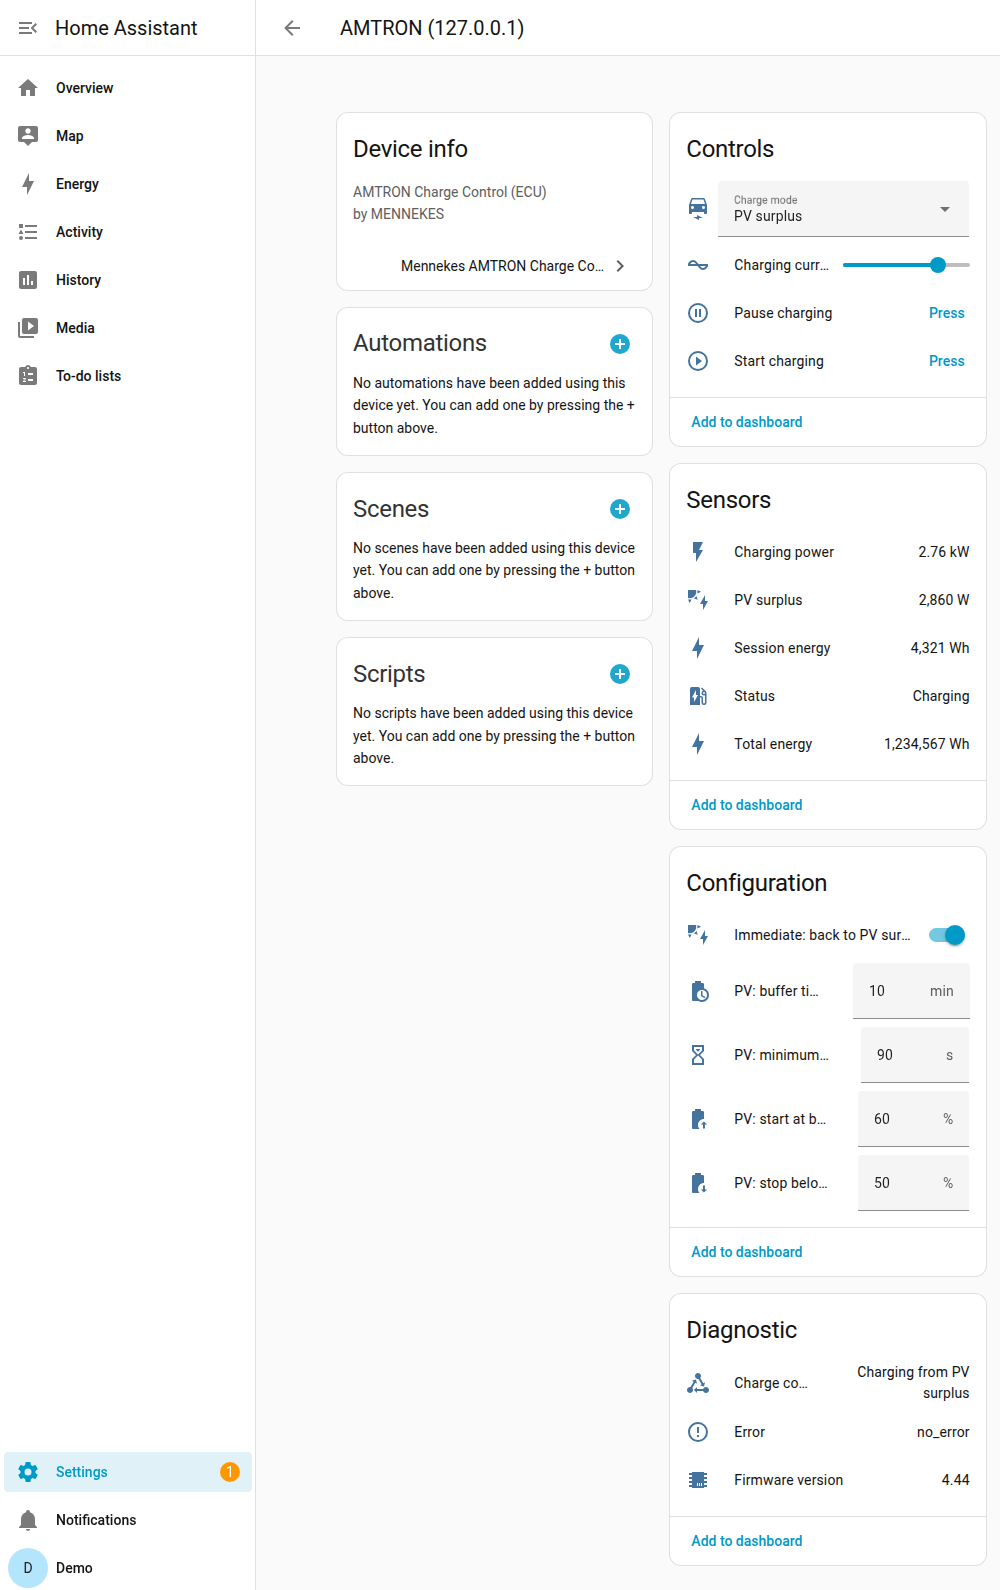
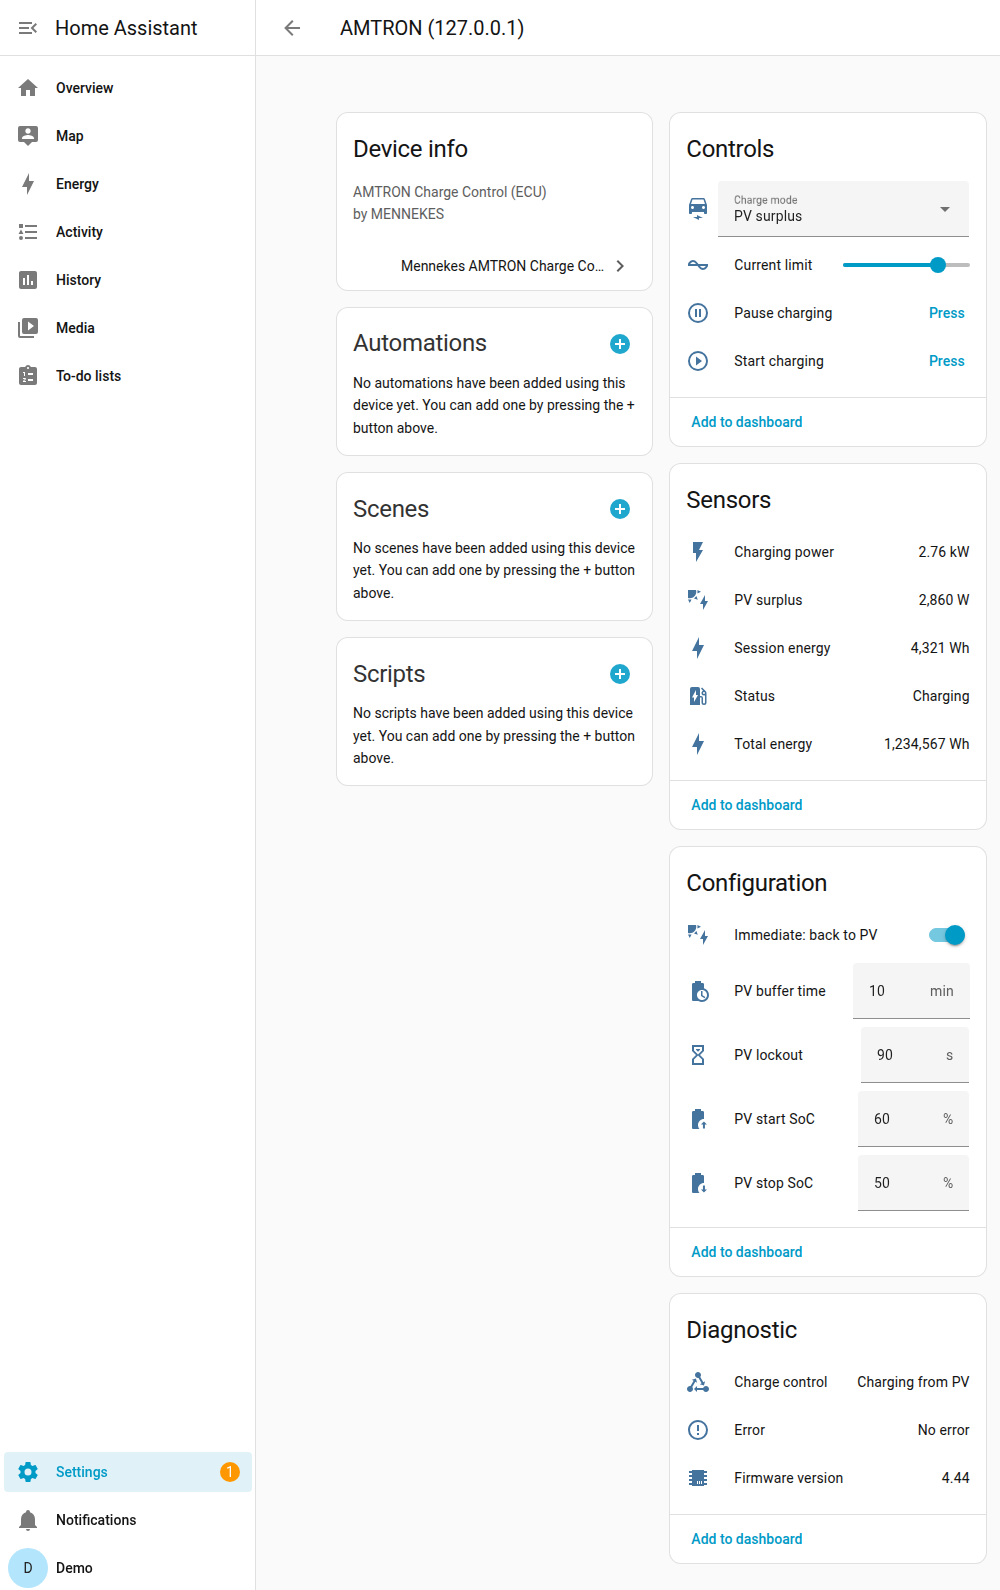
Shorten entity names and show the error sensor in plain words
The device page cut off most of the longer names ("PV: buffer ti...",
"Charging curr..."). They are now short enough to fit in both
languages: Current limit / Stromgrenze, Power limit / Leistungsgrenze,
PV start SoC, PV stop SoC, PV lockout / PV Sperrzeit, PV buffer time /
PV Pufferzeit, Immediate: back to PV / Sofort: zurück zu PV. Two
charge control states follow ("Charging from PV", "Lockout running").
Entity IDs of existing installs don't change, only the shown names.

The error sensor showed the raw "no_error". It is now an enum sensor -
the only kind Home Assistant translates - with "No error", each named
error flag in plain words, or "Several errors" when more than one flag
is set; the attributes still list every active flag.

A new test checks that every enum state has a translation and that all
languages have the same keys as strings.json. Docs and screenshots use
the new names.

Claude-Session: https://claude.ai/code/session_01ATj6pLwHaoEeCnDxwBPKHn

diff --git a/custom_components/mennekes_amtron/sensor.py b/custom_components/mennekes_amtron/sensor.py
@@ -8,8 +8,8 @@ from homeassistant.core import HomeAssistant
 from homeassistant.helpers.entity_platform import AddEntitiesCallback
 
 from .charge_controller import CONTROL_STATES, ChargeController
-from .const import CP_STATUS, PV_AVERAGE_WINDOW_S
-from .coordinator import AmtronCoordinator, AmtronData
+from .const import CP_STATUS, ERROR_STATES, PV_AVERAGE_WINDOW_S
+from .coordinator import AmtronCoordinator, AmtronData, summarize_errors
 from .entity import AmtronEntity
 from .pv_surplus import PvSurplusTracker
 
@@ -108,8 +108,10 @@ class AmtronErrorSensor(AmtronEntity, SensorEntity):
     """Decoded ECU error flags (system errors), useful for troubleshooting.
 
     Unlike the HCC3 controller, the ECU can report *several* error
-    conditions at once as a bitmask, so the state is a summary and every
-    active (named) flag is listed in the entity's attributes. The three
+    conditions at once as a bitmask. The state is "no_error", the one
+    active flag, or "multiple_errors" - an enum, so the frontend shows it
+    translated - and every active (named) flag is listed in the entity's
+    attributes. The three
     "reserved" error-code register pairs (ERROR_CODES_1-3) are read too and
     exposed as raw values, even though the manufacturer's document does not
     currently define any named bits for them - in case your firmware
@@ -119,14 +121,14 @@ class AmtronErrorSensor(AmtronEntity, SensorEntity):
     _attr_translation_key = "error"
     _unique_id_suffix = "error"
     _attr_entity_category = EntityCategory.DIAGNOSTIC
+    _attr_device_class = SensorDeviceClass.ENUM
+    _attr_options = ERROR_STATES
     _attr_icon = "mdi:alert-circle-outline"
 
     @property
     def native_value(self) -> str:
         data: AmtronData = self.coordinator.data
-        if not data.active_errors:
-            return "no_error"
-        return ", ".join(data.active_errors)
+        return summarize_errors(data.active_errors)
 
     @property
     def extra_state_attributes(self) -> dict[str, object]:

diff --git a/tests/test_translations.py b/tests/test_translations.py
@@ -1,0 +1,50 @@
+"""Tests for the translation files: complete, and the same keys in every language.
+
+hassfest checks the schema in CI, but not that every enum state the code
+can produce has a translation - a missing one shows up as a raw key like
+"no_error" in the frontend.
+"""
+from __future__ import annotations
+
+import json
+from pathlib import Path
+
+import mennekes_amtron.const as c
+import pytest
+from mennekes_amtron.charge_controller import CONTROL_STATES
+
+COMPONENT = Path(__file__).parent.parent / "custom_components" / "mennekes_amtron"
+STRINGS = json.loads((COMPONENT / "strings.json").read_text(encoding="utf-8"))
+LANGUAGES = {
+    path.stem: json.loads(path.read_text(encoding="utf-8")) for path in (COMPONENT / "translations").glob("*.json")
+}
+
+
+def _keys(tree: dict, prefix: str = "") -> set[str]:
+    keys = set()
+    for key, value in tree.items():
+        path = f"{prefix}.{key}" if prefix else key
+        keys |= _keys(value, path) if isinstance(value, dict) else {path}
+    return keys
+
+
+def test_english_translation_is_a_copy_of_strings_json():
+    assert LANGUAGES["en"] == STRINGS
+
+
+@pytest.mark.parametrize("language", sorted(LANGUAGES))
+def test_every_language_has_exactly_the_keys_of_strings_json(language):
+    assert _keys(LANGUAGES[language]) == _keys(STRINGS)
+
+
+@pytest.mark.parametrize(
+    "section, key, states",
+    [
+        ("sensor", "status", [*c.CP_STATUS.values(), "unknown"]),
+        ("sensor", "error", c.ERROR_STATES),
+        ("sensor", "charge_control", CONTROL_STATES),
+        ("select", "charge_mode", c.CHARGE_MODES),
+    ],
+)
+def test_every_enum_state_has_a_translation(section, key, states):
+    assert set(STRINGS["entity"][section][key]["state"]) == set(states)

diff --git a/custom_components/mennekes_amtron/coordinator.py b/custom_components/mennekes_amtron/coordinator.py
@@ -23,6 +23,8 @@ from .const import (
     DEFAULT_START_CURRENT_A,
     DOMAIN,
     ERROR_FLAGS,
+    ERROR_STATE_MULTIPLE,
+    ERROR_STATE_NONE,
     FIRMWARE_BLOCK_COUNT,
     FIRMWARE_BLOCK_START,
     METER_BLOCK_COUNT,
@@ -94,6 +96,19 @@ def _decode_error_pair(reg_at_lower_address: int, reg_at_higher_address: int) ->
     bits at the time of writing - see ERROR_FLAGS in const.py).
     """
     return (_byte_swap16(reg_at_higher_address) << 16) | _byte_swap16(reg_at_lower_address)
+
+
+def summarize_errors(active_errors: list[str]) -> str:
+    """The error sensor's state: one of ERROR_STATES, so Home Assistant can translate it.
+
+    Several active flags can't be joined into one translatable state, so
+    they become ERROR_STATE_MULTIPLE (the sensor lists them in its attributes).
+    """
+    if not active_errors:
+        return ERROR_STATE_NONE
+    if len(active_errors) == 1:
+        return active_errors[0]
+    return ERROR_STATE_MULTIPLE
 
 
 def _encode_id_tag(tag: str) -> list[int]:

diff --git a/tests/test_coordinator.py b/tests/test_coordinator.py
@@ -19,6 +19,7 @@ from mennekes_amtron.coordinator import (
     _decode_power_w,
     _encode_id_tag,
     _to_uint32,
+    summarize_errors,
 )
 from mennekes_amtron.modbus_client import AmtronModbusClient
 
@@ -139,6 +140,13 @@ def test_coordinator_decodes_active_errors():
             assert data.active_errors == ["err_rcmb_triggered", "err_contactor_weld"]
 
     run(body())
+
+
+def test_summarize_errors_gives_one_translatable_state():
+    assert summarize_errors([]) == c.ERROR_STATE_NONE
+    assert summarize_errors(["err_rcd_triggered"]) == "err_rcd_triggered"
+    assert summarize_errors(["err_rcmb_triggered", "err_contactor_weld"]) == c.ERROR_STATE_MULTIPLE
+    assert {c.ERROR_STATE_NONE, c.ERROR_STATE_MULTIPLE, *c.ERROR_FLAGS.values()} == set(c.ERROR_STATES)
 
 
 def test_coordinator_exposes_reserved_error_words_as_raw_diagnostics():

diff --git a/custom_components/mennekes_amtron/const.py b/custom_components/mennekes_amtron/const.py
@@ -197,6 +197,11 @@ ERROR_FLAGS = {
     20: "err_incorrect_phase_installation",
     21: "err_no_power",
 }
+# The error sensor's states: no error, the one active flag, or a summary
+# when several are set (the sensor's attributes list all of them).
+ERROR_STATE_NONE = "no_error"
+ERROR_STATE_MULTIPLE = "multiple_errors"
+ERROR_STATES = [ERROR_STATE_NONE, *ERROR_FLAGS.values(), ERROR_STATE_MULTIPLE]
 
 # --- Meter values from the OCPP primary meter -----------------------------
 # Energy L2/L3 are never populated on any documented meter model (they

diff --git a/README.md b/README.md
@@ -19,7 +19,7 @@ pymodbus dependency.
 ## Features
 
 - **Charging power** (kW) — live, from the wallbox's built-in energy meter
-- **Charging current limit** (A) — adjustable, with a configurable maximum matching your
+- **Current limit** (A) — adjustable, with a configurable maximum matching your
   supply circuit's fusing
 - **Start charging** — sets a configurable "start current" (16 A by default), then writes a
   synthetic OCPP IdTag (same effect as tapping an RFID card). If a session is already open, it
@@ -41,17 +41,18 @@ pymodbus dependency.
 | Entity | Type | Shown under | Notes |
 |---|---|---|---|
 | Charge mode | Select | Controls | PV surplus / Immediate / Off / Manual. Default Manual. |
-| Charging current limit | Number (A) | Controls | 0 = paused; 6 A … configured maximum. Changing it switches the charge mode to Manual. |
-| Charging power limit | Number (W) | Controls | Only with phase switching enabled. |
+| Current limit | Number (A) | Controls | 0 = paused; 6 A … configured maximum. Changing it switches the charge mode to Manual. |
+| Power limit | Number (W) | Controls | Only with phase switching enabled. |
 | Start charging / Pause charging | Button | Controls | Both switch the charge mode to Manual. |
 | Charging power | Sensor (kW) | Sensors | From the wallbox's meter. |
 | Status | Sensor | Sensors | OCPP status, e.g. Available, Charging, Suspended (wallbox), Suspended (vehicle). |
 | Session energy / Total energy | Sensor (Wh) | Sensors | Total energy works with the Energy dashboard. |
 | PV surplus | Sensor (W) | Sensors | Only with PV sources configured; 2-minute average. |
-| PV: start at battery SoC, PV: stop below battery SoC, PV: minimum time between start/stop, PV: buffer time below 6 A | Number | Configuration | Only with PV sources configured. |
-| Immediate: back to PV surplus when full | Switch | Configuration | Only with PV sources configured. |
+| PV start SoC, PV stop SoC, PV lockout, PV buffer time | Number | Configuration | Only with PV sources configured; see [PV surplus controller](#pv-surplus-controller). |
+| Immediate: back to PV | Switch | Configuration | Only with PV sources configured; see [Back from Immediate](#charge-mode). |
 | Charge control | Sensor | Diagnostic | What the PV controller is doing and why. |
-| Error / Firmware version | Sensor | Diagnostic | |
+| Error | Sensor | Diagnostic | "No error", the active error in plain words, or "Several errors"; the attributes list every active error. |
+| Firmware version | Sensor | Diagnostic | |
 
 ## Getting started
 
@@ -75,9 +76,9 @@ switching"**:
 
 | Mode | Effect |
 |---|---|
-| Disabled *(default)* | Unchanged from above: only the Amp-based **Charging current limit** entity exists. |
-| Single-phase only | Adds a **Charging power limit** (W) entity; requests are always clamped to the 1-phase range, never switching to 3-phase. The charge mode controller (PV surplus, Immediate, Off) is inactive in this mode and the next. |
-| Automatic (1-phase / 3-phase) | Adds the same **Charging power limit** (W) entity; the wallbox switches phases itself depending on the requested power - below 4140 W it charges 1-phase, at or above it charges 3-phase (the wallbox's own documented behavior for this register, not something this integration decides). |
+| Disabled *(default)* | Unchanged from above: only the Amp-based **Current limit** entity exists. |
+| Single-phase only | Adds a **Power limit** (W) entity; requests are always clamped to the 1-phase range, never switching to 3-phase. The charge mode controller (PV surplus, Immediate, Off) is inactive in this mode and the next. |
+| Automatic (1-phase / 3-phase) | Adds the same **Power limit** (W) entity; the wallbox switches phases itself depending on the requested power - below 4140 W it charges 1-phase, at or above it charges 3-phase (the wallbox's own documented behavior for this register, not something this integration decides). |
 
 Set the entity to the power you actually want delivered (e.g. `1380` for a minimal 1-phase
 charge, `11040` for a full 3-phase 16 A charge); the integration converts it to what the wallbox
@@ -132,12 +133,12 @@ The **Charge mode** select entity:
 | Manual *(default)* | The integration doesn't touch the wallbox on its own. |
 
 **Manual override:** pressing **Start charging** or **Pause charging**, or changing the
-**Charging current limit**, switches the mode to Manual - otherwise the controller would undo it
+**Current limit**, switches the mode to Manual - otherwise the controller would undo it
 within 30 s. The controller's own starts and stops don't. Unplugging the car (status "Available"
 for 10 s) switches Manual back to PV surplus if PV sources are configured; Immediate and Off
 stay until you change them.
 
-**Back from Immediate:** with *Immediate: back to PV surplus when full* on (the default), Immediate
+**Back from Immediate:** with *Immediate: back to PV* on (the default), Immediate
 switches to PV surplus once the car is full. The wallbox doesn't know the car's state of charge,
 so "full" means the car has paused charging itself (status "Suspended (vehicle)") for 10 minutes
 while current was offered. A car that pauses on its own for other reasons (e.g. its own charging
@@ -148,18 +149,17 @@ plug-in: it keeps it if the start condition holds and stops it otherwise.
 
 Runs every 30 s. It assumes the car charges on **one phase**, so each Amp is worth 230 W.
 
-- **Start** when the battery SoC is at or above *PV: start at battery SoC* (default 60 %) **and**
-  the 2-minute average is at least 1380 W (6 A).
+- **Start** when the battery SoC is at or above *PV start SoC* (default 60 %) **and** the
+  2-minute average is at least 1380 W (6 A).
 - **Current** = floor(average / 230 W), limited to 6 A … the configured maximum; written only when
   it changes.
-- **Below 6 A** of surplus it keeps charging at 6 A from the battery for *PV: buffer time below
-  6 A* (default 10 min) to bridge clouds, then stops. The battery only buffers; it isn't drained
-  into the car.
-- **Stop** when the SoC falls below *PV: stop below battery SoC* (default 50 %); it restarts only
-  once the start SoC is reached again. The gap is the hysteresis, so the stop SoC must stay below
-  the start SoC.
-- At least *PV: minimum time between start/stop* (default 90 s) between two start or stop
-  commands. Picking a mode yourself acts at once.
+- **Below 6 A** of surplus it keeps charging at 6 A from the battery for *PV buffer time*
+  (default 10 min) to bridge clouds, then stops. The battery only buffers; it isn't drained into
+  the car.
+- **Stop** when the SoC falls below *PV stop SoC* (default 50 %); it restarts only once the start
+  SoC is reached again. The gap is the hysteresis, so the stop SoC must stay below the start SoC.
+- At least *PV lockout* (default 90 s) between two start or stop commands. Picking a mode
+  yourself acts at once.
 - If the wallbox starts charging on its own (e.g. at plug-in), the controller takes the session
   over if the start condition holds and stops it otherwise - the start SoC applies to every
   session.
@@ -195,9 +195,9 @@ Page 2 picks the PV surplus sources:
 
 ![Configure options, page 2: PV surplus sources](screenshots/configure_pv_sources_en.png)
 
-The charging-current-limit entity's own dialog, with its history graph:
+The current limit entity's own dialog, with its history graph:
 
-![Charging current limit entity](screenshots/entity_current_limit_en.png)
+![Current limit entity](screenshots/entity_current_limit_en.png)
 
 <details>
 <summary>Same screenshots in German (Home Assistant UI set to Deutsch)</summary>
@@ -206,7 +206,7 @@ The charging-current-limit entity's own dialog, with its history graph:
 ![Lademodus](screenshots/charge_mode_options_de.png)
 ![Konfigurationsdialog, Seite 1](screenshots/configure_options_de.png)
 ![Konfigurationsdialog, Seite 2: PV-Überschuss-Quellen](screenshots/configure_pv_sources_de.png)
-![Entität Ladestrom-Grenze](screenshots/entity_current_limit_de.png)
+![Entität Stromgrenze](screenshots/entity_current_limit_de.png)
 
 </details>
 

diff --git a/ANLEITUNG.md b/ANLEITUNG.md
@@ -66,15 +66,16 @@ Alle Leistungen werden als positive Werte in W oder kW erwartet.
 | Bereich | Entity | Wofür |
 |---|---|---|
 | Steuerelemente | Lademodus | PV-Überschuss, Sofort, Aus oder Manuell (siehe unten). |
-| | Ladestrom-Grenze | Ladestrom von Hand setzen. 0 A heißt pausiert. |
+| | Stromgrenze | Ladestrom von Hand setzen. 0 A heißt pausiert. |
 | | Ladevorgang starten / pausieren | Startet mit dem Startladestrom bzw. pausiert mit dem Pausenwert. |
 | Sensoren | Ladeleistung, Status, Energie (aktuelle Ladung), Gesamtenergie | Messwerte der Wallbox. Die Gesamtenergie eignet sich für das Energie-Dashboard. |
 | | PV-Überschuss | Überschuss im 2-Minuten-Mittel. Nur mit PV-Quellen. |
-| Konfiguration | PV: … und Sofort: … | Einstellungen der PV-Regelung (siehe unten). Nur mit PV-Quellen. |
+| Konfiguration | PV Start-SoC, PV Stopp-SoC, PV Sperrzeit, PV Pufferzeit, Sofort: zurück zu PV | Einstellungen der PV-Regelung (siehe unten). Nur mit PV-Quellen. |
 | Diagnose | Laderegelung | Zeigt, was die Regelung gerade tut und warum. |
-| | Fehler, Firmware-Version | Für die Fehlersuche. |
+| | Fehler | „Kein Fehler“, der aktive Fehler im Klartext oder „Mehrere Fehler“. Die Attribute listen alle aktiven Fehler. |
+| | Firmware-Version | Für die Fehlersuche und Supportanfragen. |
 
-Mit aktiver Phasenumschaltung kommt die **Ladeleistung-Grenze** (W) dazu.
+Mit aktiver Phasenumschaltung kommt die **Leistungsgrenze** (W) dazu.
 
 ## 5. Laden im Alltag: der Lademodus
 
@@ -85,17 +86,17 @@ Mit aktiver Phasenumschaltung kommt die **Ladeleistung-Grenze** (W) dazu.
 | **PV-Überschuss** | Die Integration startet, regelt und stoppt die Ladung nach dem Überschuss (siehe nächster Abschnitt). |
 | **Sofort** | Lädt mit dem maximalen Ladestrom. Ist das Auto voll, wechselt der Modus auf PV-Überschuss (abschaltbar). |
 | **Aus** | Hält den Ladestrom auf 0 A. |
-| **Manuell** *(Standard)* | Die Integration greift nicht selbst ein. Du steuerst über die Buttons und die Ladestrom-Grenze. |
+| **Manuell** *(Standard)* | Die Integration greift nicht selbst ein. Du steuerst über die Buttons und die Stromgrenze. |
 
 - **Manuell eingreifen:** „Ladevorgang starten“, „Ladevorgang pausieren“ oder eine Änderung der
-  Ladestrom-Grenze schalten den Modus auf **Manuell**. Sonst würde die Regelung deine Änderung
+  Stromgrenze schalten den Modus auf **Manuell**. Sonst würde die Regelung deine Änderung
   innerhalb von 30 s wieder überschreiben.
 - **Ausstecken:** Steht der Status mindestens 10 s auf „Frei“, geht „Manuell“ zurück auf
   **PV-Überschuss** (nur mit PV-Quellen). „Sofort“ und „Aus“ bleiben, bis du sie änderst.
 - **Auto voll bei „Sofort“:** Die Wallbox kennt den Akkustand des Autos nicht. Als voll gilt das
   Auto, wenn es 10 Minuten lang selbst pausiert („Pausiert (Fahrzeug)“), obwohl Strom angeboten
   wird. Pausiert dein Auto auch aus anderen Gründen, z. B. wegen eines eigenen Ladetimers, den
-  Schalter **„Sofort: danach zurück zu PV-Überschuss“** ausschalten.
+  Schalter **„Sofort: zurück zu PV“** ausschalten.
 
 ## 6. So entscheidet die PV-Regelung
 
@@ -118,11 +119,11 @@ Die Einstellungen dazu findest du auf der Geräteseite unter **Konfiguration**:
 
 | Einstellung | Standard | Bedeutung |
 |---|---|---|
-| PV: Start ab Speicher-SoC | 60 % | Unter diesem Ladestand startet keine PV-Ladung. |
-| PV: Stopp unter Speicher-SoC | 50 % | Darunter stoppt die Ladung. Muss unter dem Start-SoC liegen. |
-| PV: Mindestabstand Start/Stopp | 90 s | Mindestzeit zwischen zwei Start- oder Stoppbefehlen, schont Auto und Wallbox. |
-| PV: Pufferzeit unter 6 A | 10 min | So lange darf der Speicher bei weniger als 6 A Überschuss aushelfen. |
-| Sofort: danach zurück zu PV-Überschuss | an | Wechselt von „Sofort“ auf PV-Überschuss, wenn das Auto voll ist. |
+| PV Start-SoC | 60 % | Unter diesem Ladestand startet keine PV-Ladung. |
+| PV Stopp-SoC | 50 % | Darunter stoppt die Ladung. Muss unter dem Start-SoC liegen. |
+| PV Sperrzeit | 90 s | Mindestzeit zwischen zwei Start- oder Stoppbefehlen, schont Auto und Wallbox. |
+| PV Pufferzeit | 10 min | So lange darf der Speicher bei weniger als 6 A Überschuss aushelfen. |
+| Sofort: zurück zu PV | an | Wechselt von „Sofort“ auf PV-Überschuss, wenn das Auto voll ist. |
 
 ## 7. Was zeigt die „Laderegelung“?
 
@@ -132,9 +133,9 @@ Die Einstellungen dazu findest du auf der Geräteseite unter **Konfiguration**:
 | Kein Fahrzeug | Kein Auto eingesteckt. |
 | Wartet auf Speicher-SoC | Der Speicher hat den Start-SoC noch nicht erreicht. |
 | Wartet auf Überschuss | Weniger als 1380 W Überschuss im 2-Minuten-Mittel. |
-| Lädt mit PV-Überschuss | Die Regelung lädt und führt den Strom nach. |
+| Lädt mit PV | Die Regelung lädt und führt den Strom nach dem Überschuss nach. |
 | Puffert aus Speicher | Weniger als 6 A Überschuss, die Pufferzeit läuft. |
-| Mindestabstand läuft | Ein Start oder Stopp ist fällig, wartet aber noch auf den Mindestabstand. |
+| Sperrzeit läuft | Ein Start oder Stopp ist fällig, wartet aber noch das Ende der Sperrzeit ab. |
 | Wartet auf Daten | Eine Quelle, der SoC oder die Wallbox ist nicht verfügbar, oder die Integration läuft noch keine Minute. |
 | Keine PV-Quellen konfiguriert | PV-Überschuss ist gewählt, aber auf Seite 2 von „Konfigurieren“ fehlt die Netzeinspeisung. |
 | Phasenumschaltung aktiv | Die Phasenumschaltung steht nicht auf „Deaktiviert“, die Regelung bleibt aus. |
@@ -145,7 +146,7 @@ Die Einstellungen dazu findest du auf der Geräteseite unter **Konfiguration**:
 - **„Ladevorgang starten“ wirkt nicht:** In der Wallbox „Modbus Slave Allow Start/Stop
   Transaction“ und „kostenloses Laden“ prüfen (Schritt 1).
 - **Der Lademodus springt auf „Manuell“:** Das ist gewollt, sobald du selbst startest, pausierst
-  oder die Ladestrom-Grenze änderst.
+  oder die Stromgrenze änderst.
 - **PV-Überschuss lädt nicht los:** Die Laderegelung zeigt den Grund. Die Attribute des Sensors
   „PV-Überschuss“ zeigen die einzelnen Werte der letzten Messung, die du mit der App deines
   Wechselrichters vergleichen kannst.
